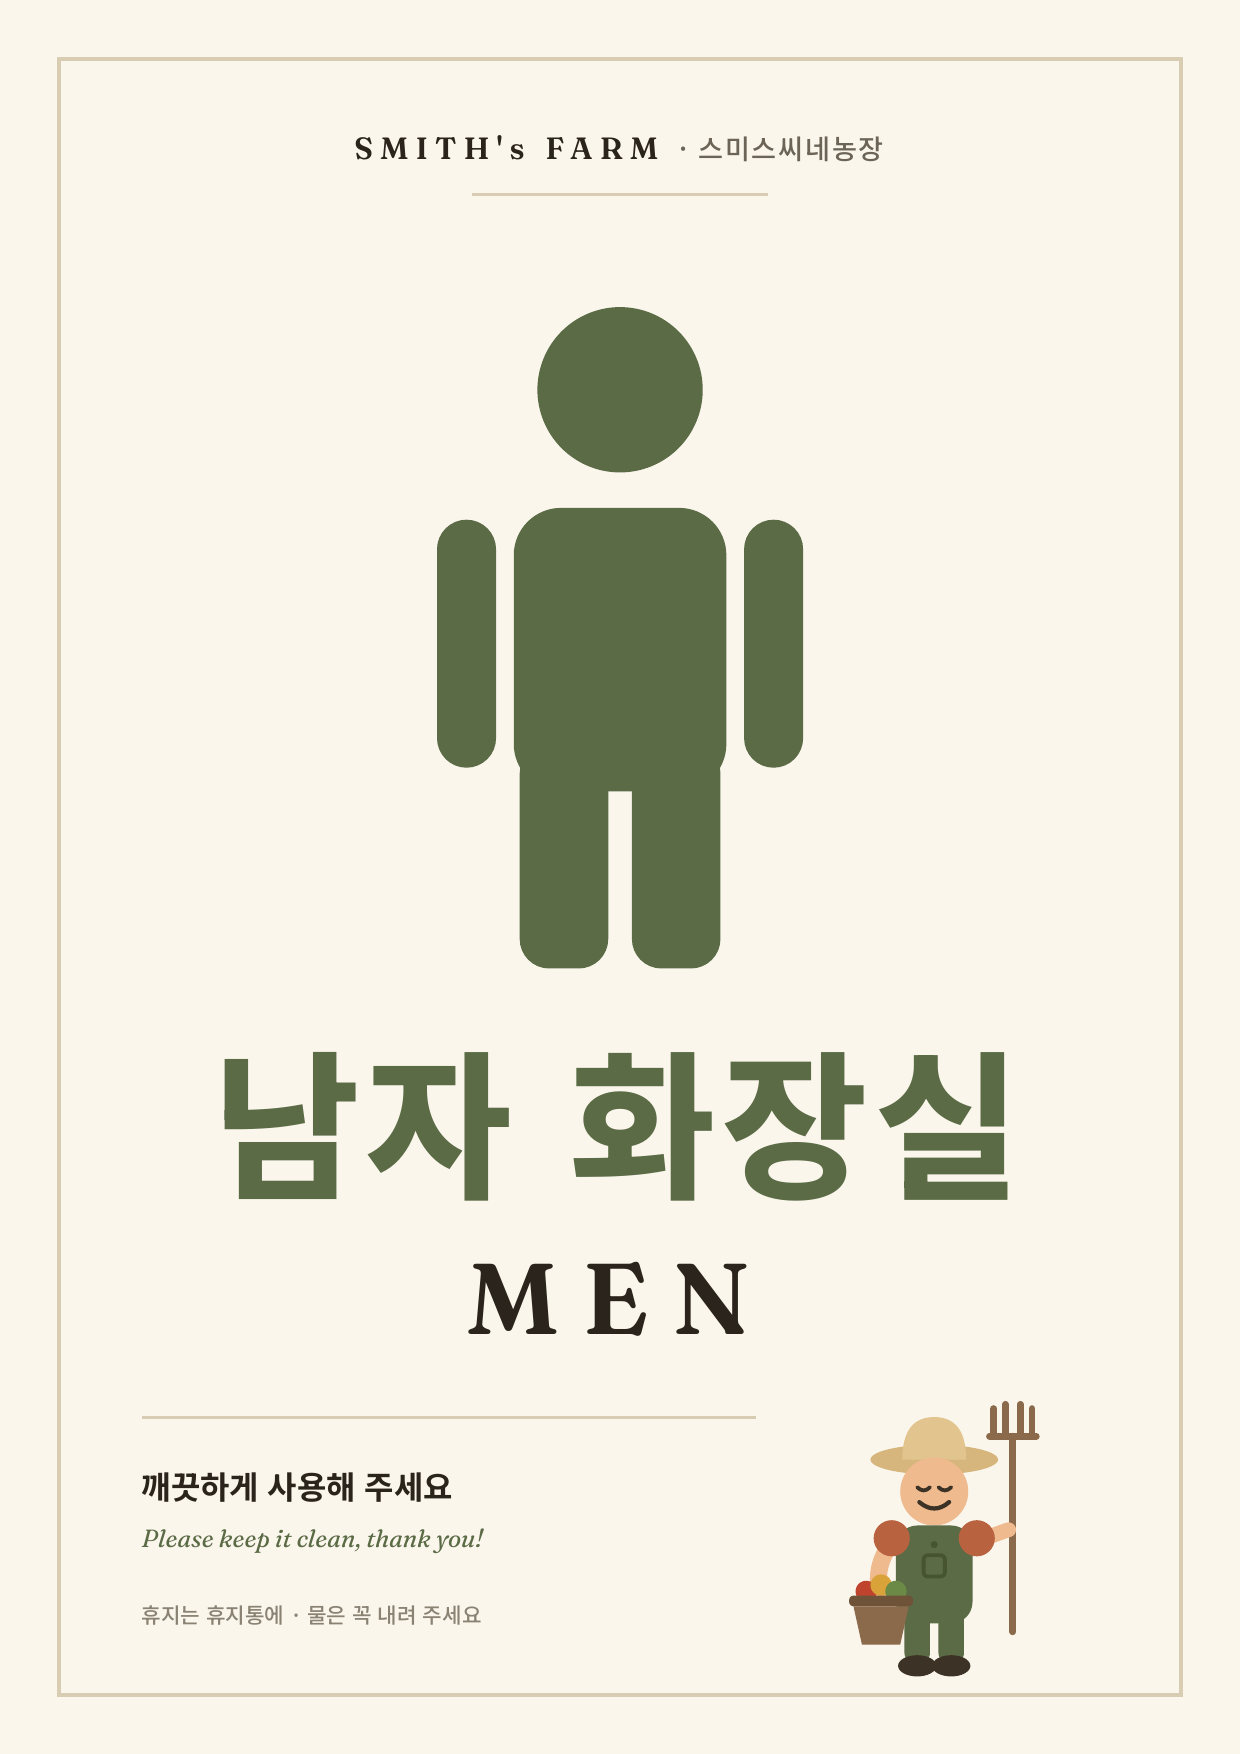
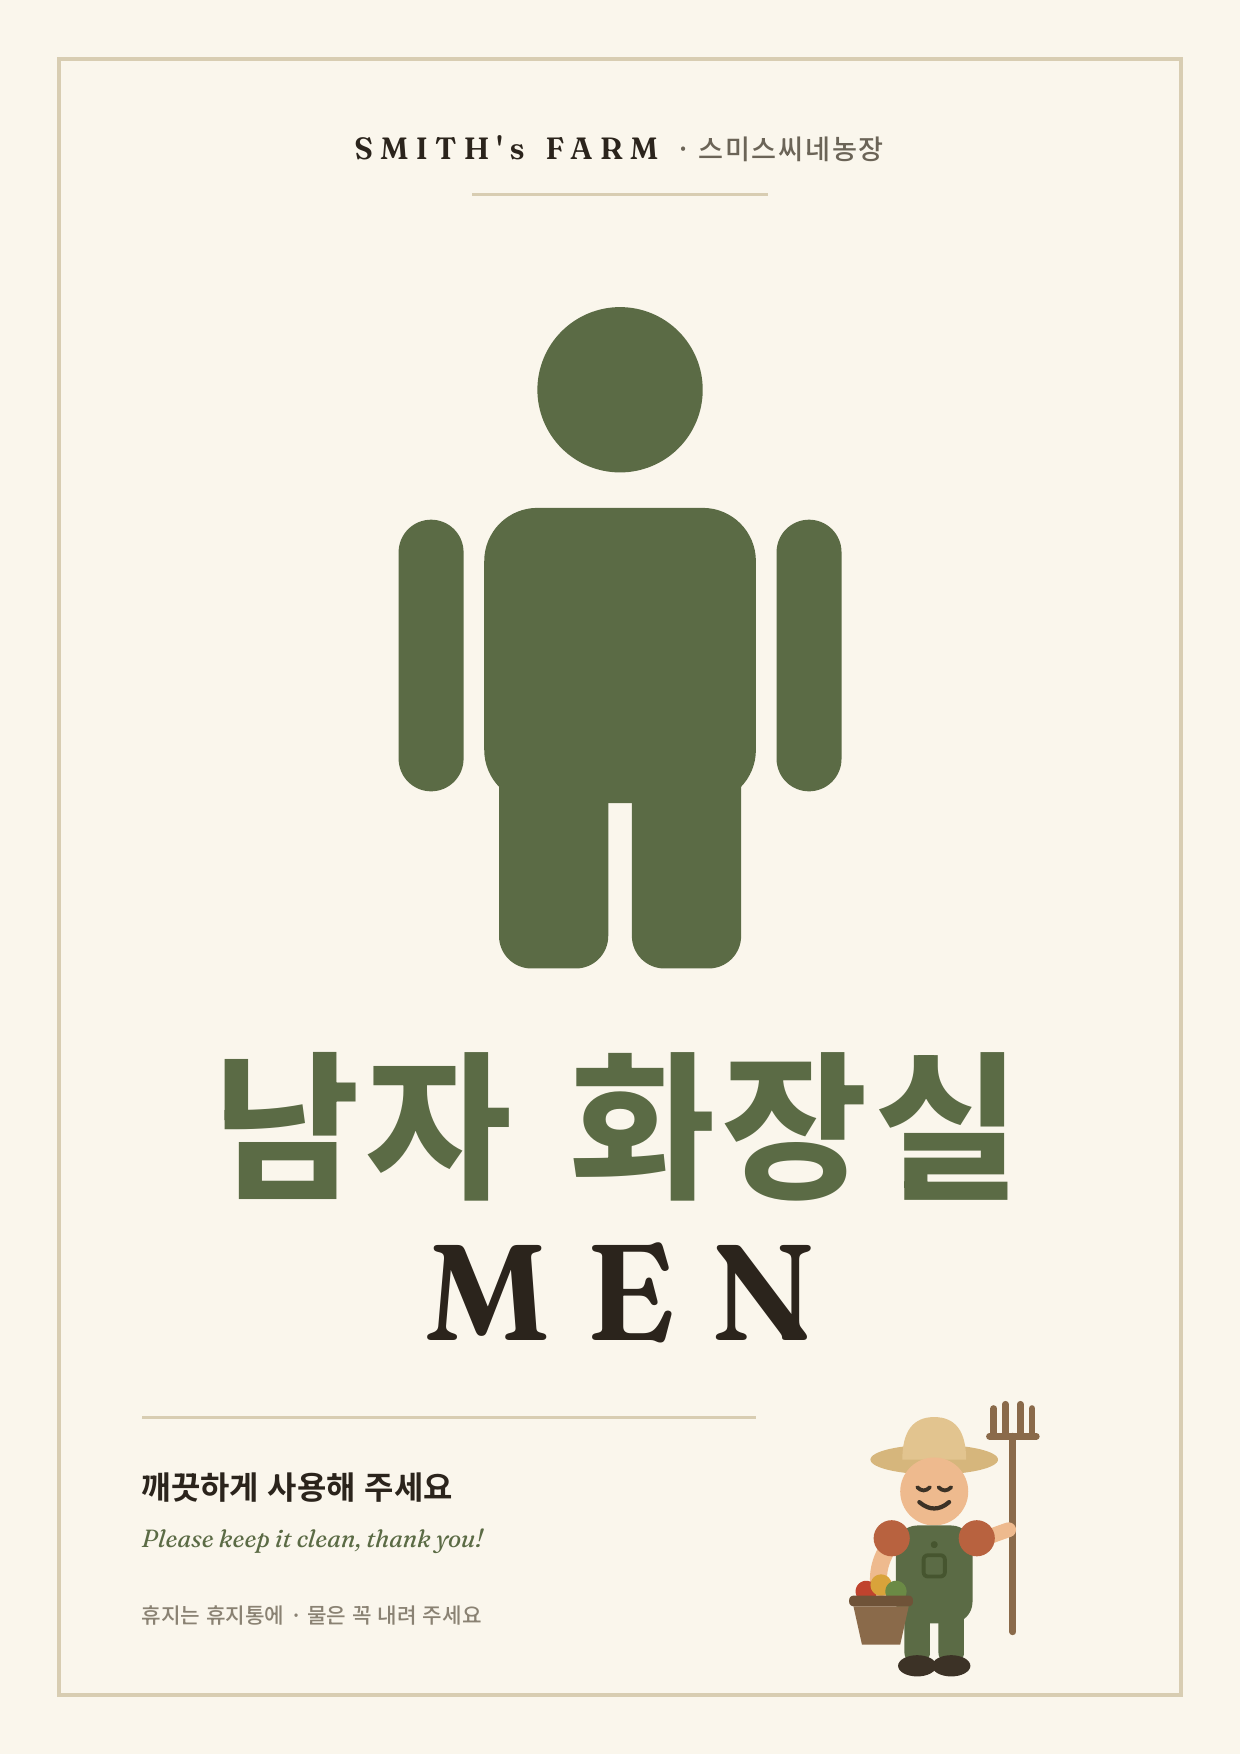
Restroom: men pictogram and MEN label sized to match the women sign
Claude-Session: https://claude.ai/code/session_01VQ8MMq98AyuhceDc8oF9Qd

diff --git a/goods/restroom/source/make_wc.py b/goods/restroom/source/make_wc.py
@@ -7,11 +7,11 @@ HAT, HAT2, SKIN, WOOD, SHOE = '#e2c48f', '#d6b67c', '#eeba8e', '#8a6a4a', '#3c32
 def picto(kind, c):
     if kind == 'men':
         return f'''<circle cx="105" cy="62" r="14" fill="{c}"/>
-<rect x="87" y="82" width="36" height="48" rx="8" fill="{c}"/>
-<rect x="74" y="84" width="10" height="42" rx="5" fill="{c}"/>
-<rect x="126" y="84" width="10" height="42" rx="5" fill="{c}"/>
-<rect x="88" y="122" width="15" height="38" rx="5" fill="{c}"/>
-<rect x="107" y="122" width="15" height="38" rx="5" fill="{c}"/>'''
+<rect x="82" y="82" width="46" height="50" rx="9" fill="{c}"/>
+<rect x="67.5" y="84" width="11" height="46" rx="5.5" fill="{c}"/>
+<rect x="131.5" y="84" width="11" height="46" rx="5.5" fill="{c}"/>
+<rect x="84.5" y="124" width="18.5" height="36" rx="5.5" fill="{c}"/>
+<rect x="107" y="124" width="18.5" height="36" rx="5.5" fill="{c}"/>'''
     return f'''<circle cx="105" cy="62" r="14" fill="{c}"/>
 <path d="M91 82 H119 L137 134 H73 Z" fill="{c}" stroke="{c}" stroke-width="7" stroke-linejoin="round"/>
 <rect x="72" y="84" width="9" height="34" rx="4.5" fill="{c}" transform="rotate(14 76 86)"/>
@@ -73,7 +73,7 @@ def page(kind):
 <line x1="80" y1="33" x2="130" y2="33" stroke="{LINE}" stroke-width="0.5"/>
 <g transform="translate(0 4)">{picto(kind, c)}</g>
 <text x="105" y="201" text-anchor="middle" class="ko" font-weight="800" font-size="27" fill="{c}" letter-spacing="1">{ko}</text>
-<text x="105" y="226" text-anchor="middle" class="fr" font-size="17" letter-spacing="4" fill="{INK}">{en}</text>
+<text x="{108 if kind == 'men' else 107}" y="227" text-anchor="middle" class="fr" font-size="{23 if kind == 'men' else 17}" letter-spacing="{6 if kind == 'men' else 4}" fill="{INK}">{en}</text>
 <line x1="24" y1="240" x2="128" y2="240" stroke="{LINE}" stroke-width="0.5"/>
 <text x="24" y="254" class="ko" font-weight="700" font-size="5.4" fill="{INK}">깨끗하게 사용해 주세요</text>
 <text x="24" y="262" class="fri" font-size="4.2" fill="{c}">Please keep it clean, thank you!</text>
